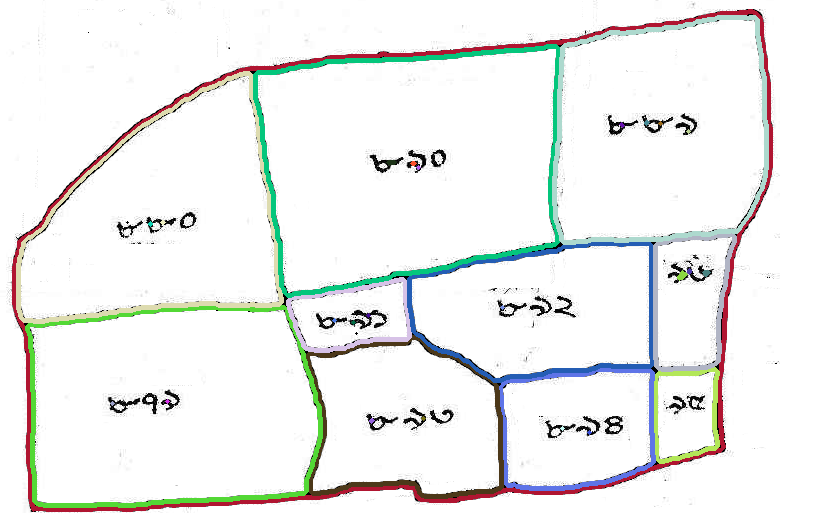
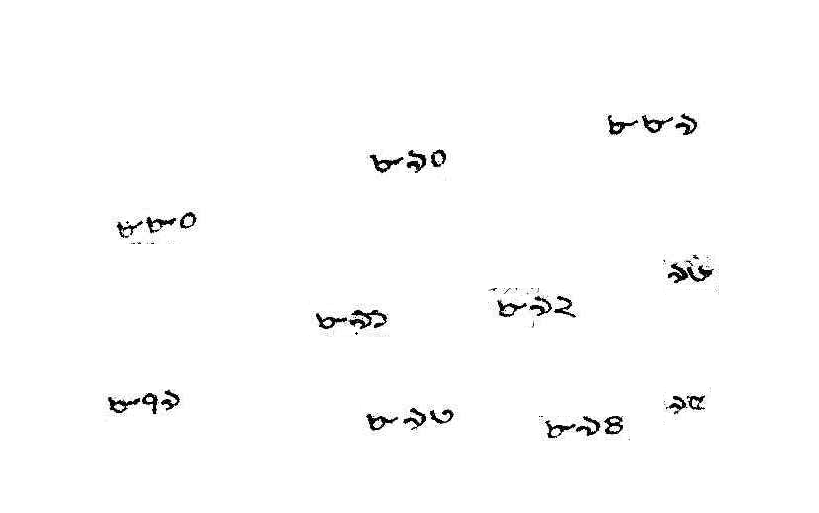
new files for cleanup

Changed region(s): [[0.0, 0.0, 0.9463, 1.0]]

diff --git a/Software Development/Process.py b/Software Development/Process.py
@@ -1,0 +1,65 @@
+import cv2
+import numpy as np
+import random as rn
+
+
+class Process:
+    """
+    This class contains all the algorithms used in getting different sub images
+    """
+
+    def __init__(self):
+        pass
+
+    @staticmethod
+    def blurs(img):
+        """
+        Applies blurs to exterminate small noises in the image
+        :param img: image with noise
+        :return: noise reduced image
+        """
+        blur = cv2.GaussianBlur(img, (3, 3), 0)
+        ret3, img = cv2.threshold(blur, 0, 255, cv2.THRESH_BINARY_INV + cv2.THRESH_OTSU)
+        img = cv2.medianBlur(img, 3)
+        return img
+
+    @staticmethod
+    def thinning(img):
+        """
+        Thin the black lines
+        :param img: original image
+        :return: eroded image
+        """
+        kernel = np.ones((5, 5), np.uint8)
+        img = cv2.erode(img, kernel, iterations=1)
+        return img
+
+    @staticmethod
+    def get_contour(img, color, flag=0):
+        """
+        This derives the available contours of an image
+        :param self: NIL
+        :param image: the image with contours
+        :param flag: 1: Show image 0: just return contours
+        :return:
+        """
+        # apply blur
+        img = Process.blurs(img)
+
+        # apply thinning
+        img = Process.thinning(img)
+
+        # get contours
+        ret, thresh = cv2.threshold(img, 127, 255, 0)
+        im2, contours, hierarchy = cv2.findContours(thresh, cv2.RETR_TREE, cv2.CHAIN_APPROX_SIMPLE)
+
+        if flag:
+            empty = np.zeros(img.shape, np.uint8)
+            for cnt in contours[1:]:
+                cv2.drawContours(empty, [cnt], 0, (255, 255, 255), -1)
+                cv2.drawContours(color, [cnt], 0, (rn.randint(0, 255), rn.randint(0, 255), rn.randint(0, 255)), -1)
+                empty = np.zeros(img.shape, np.uint8)
+            return color, contours[1:]
+        else:
+            return im2, contours[1:]
+

diff --git a/Software Development/Visual.py b/Software Development/Visual.py
@@ -1,0 +1,70 @@
+import numpy as np
+import matplotlib.pyplot as plt
+import cv2
+
+
+class Visual:
+    """
+    This class mainly deals with visualising the different
+    processes that take place
+    """
+    def __init__(self):
+        pass
+
+    in_folder = "Maps/"
+    out_folder = "Extracted/"
+
+    @staticmethod
+    def image_open(title, flag=0):
+        """
+        Open image file
+
+        :param title: Open image with title as name
+        :param flag: 0: default to binary 1: color image
+        :return: numpy array of image
+        """
+        img = cv2.imread(Visual.in_folder+title, flag)
+        # cv2.imshow(Visual.in_folder+title, img)
+        # cv2.waitKey()
+        return img
+
+    @staticmethod
+    def image_write(title,img):
+        """
+        Write image to file
+
+        :param title: name of image file to write to
+        :param img: numpy array to write
+        :return: NIL
+        """
+        cv2.imwrite(Visual.out_folder+title, img)
+
+    @staticmethod
+    def plot(title, image, map='gray'):
+        """
+        Show image in new window
+
+        :param title: Title of image
+        :param image: the numpy array to represent
+        :param map: default to greyscale image
+        :return: NIL
+        """
+        plt.imshow(image, cmap=map)
+        plt.title(title)
+        plt.show()
+
+    @staticmethod
+    def get_nums(im_org, im_plot):
+        """
+        Subtract plot contour image from original to get
+        image with only numbers
+
+        :param im_org: original image
+        :param im_plot: plot contour image
+        :return: numbered image
+        """
+        im_nums = ~(im_org ^ im_plot)
+        Visual.plot('Contour', im_plot)
+        Visual.plot('Numbers and Contour', im_org)
+        Visual.plot('Numbers', im_nums)
+        return im_nums

diff --git a/Software Development/Manage.py b/Software Development/Manage.py
@@ -1,0 +1,14 @@
+from Visual import Visual
+from Process import Process
+
+
+if __name__ == "__main__":
+    title = ["Numbered.png", "Enhanced.png"]
+    a = Visual.image_open(title[0])
+    b = Visual.image_open(title[1])
+    d = Visual.image_open(title[1], 1)
+    c = Visual.get_nums(a, b)
+    #d, _ = Process.get_contour(b, 1)
+
+    Visual.image_write(title[0],c)
+    #Visual.image_write(title[1],d)
